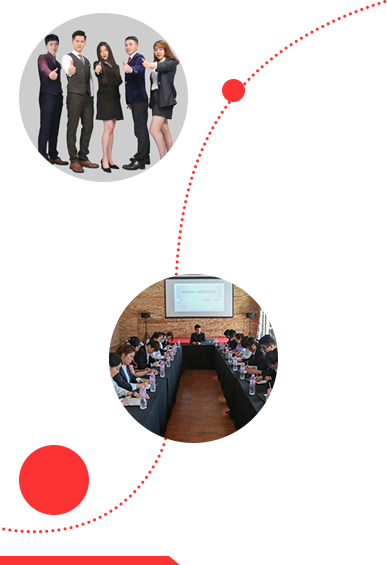
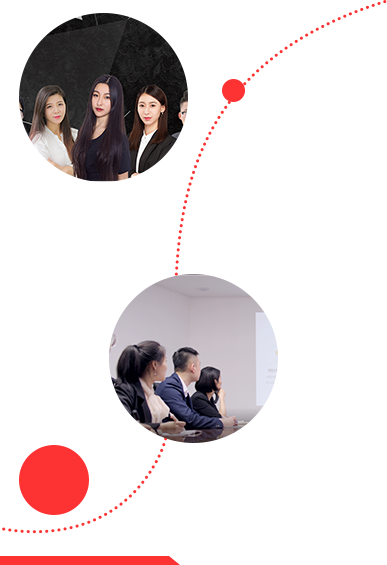
更新服务介绍页面图片及相关页面结构;

Changed region(s): [[0.031, 0.0, 0.4961, 0.331], [0.2791, 0.4814, 0.7442, 0.7823]]

diff --git a/views/service.html b/views/service.html
@@ -198,7 +198,7 @@
 <!-- End module 03 area -->
 
 <!-- Start module 04 area -->
-<div class="module module-04">
+<div class="module module-04 hidden">
 
 	<!-- Start module main area -->
 	<div class="main">
